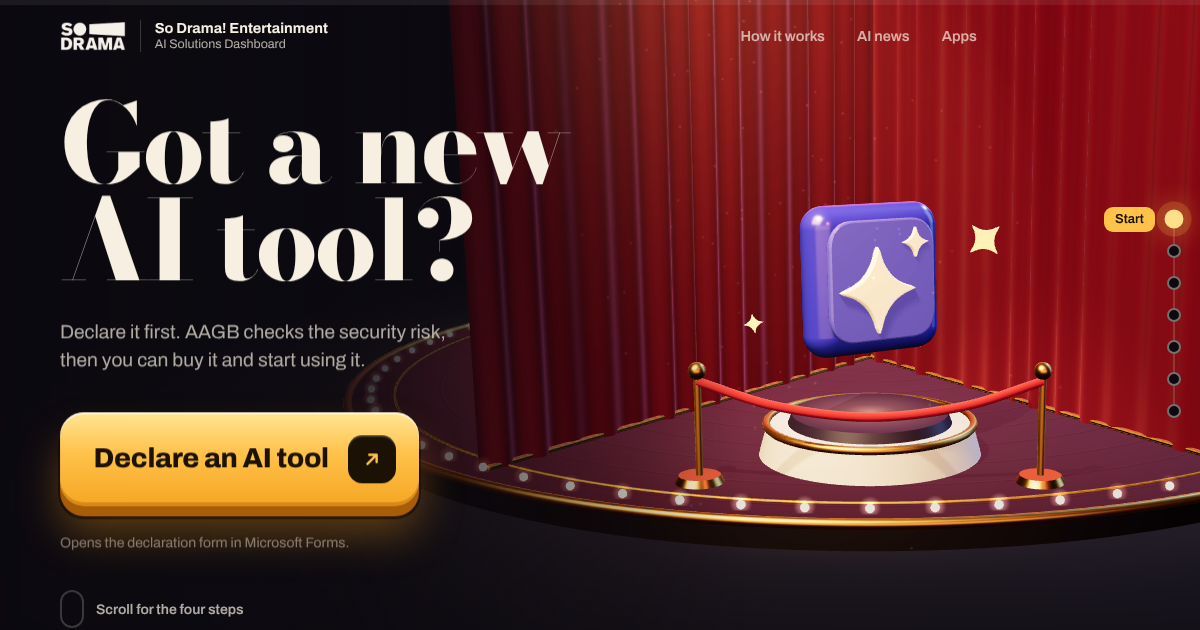
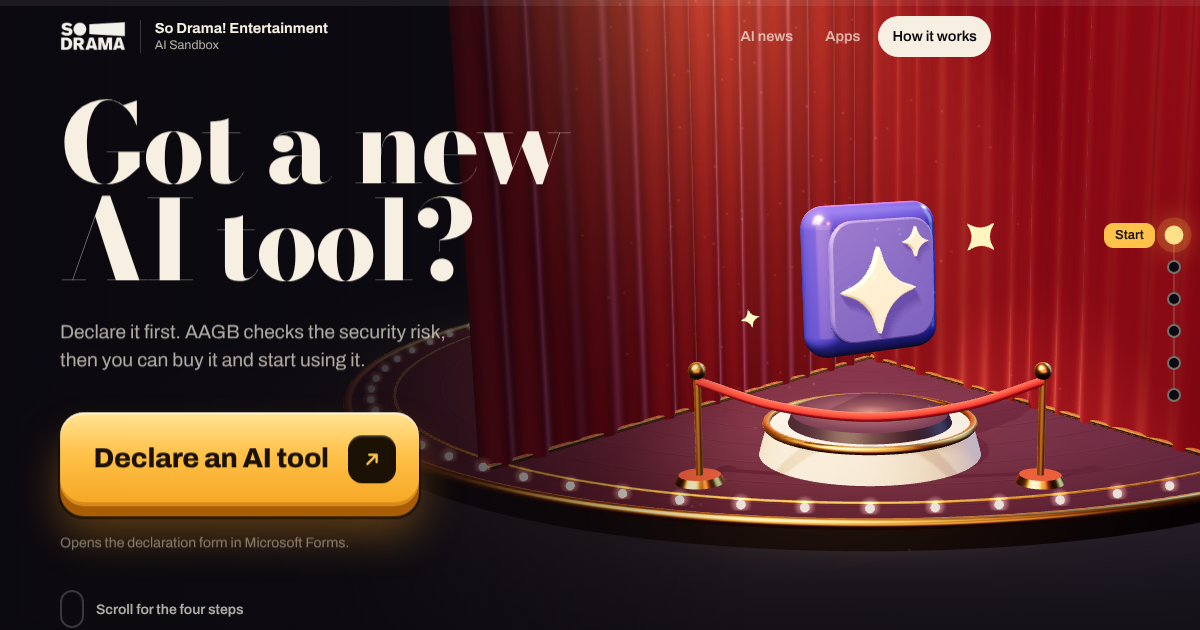
Rename the site to AI Sandbox
"AI Solutions Dashboard" becomes "AI Sandbox" in the top bar, the footer,
the browser tab, the share preview and the README. The installed app is
now called "AI Sandbox" too. The share picture (og.png) is re-rendered
with the new name and the new tab order.

The web address is unchanged.

Claude-Session: https://claude.ai/code/session_01SqWYa9AzrgcWZEtM8z7eVP

diff --git a/index.html b/index.html
@@ -3,21 +3,21 @@
 <head>
 <meta charset="utf-8">
 <meta name="viewport" content="width=device-width, initial-scale=1">
-<title>AI Solutions Dashboard · So Drama! Entertainment</title>
+<title>AI Sandbox · So Drama! Entertainment</title>
 <meta name="description" content="Catch up on AI news, open the apps we have built, and see how to declare the AI tools you use.">
 <meta name="theme-color" content="#0c0a10">
 <meta property="og:type" content="website">
-<meta property="og:title" content="AI Solutions Dashboard · So Drama! Entertainment">
+<meta property="og:title" content="AI Sandbox · So Drama! Entertainment">
 <meta property="og:description" content="Catch up on AI news, open the apps we have built, and see how to declare the AI tools you use.">
 <meta property="og:url" content="https://inthemightyjungle.github.io/sodrama-ai-dashboard/">
 <meta property="og:image" content="https://inthemightyjungle.github.io/sodrama-ai-dashboard/assets/img/og.png">
 <link rel="icon" href="assets/img/favicon.png">
 <link rel="apple-touch-icon" href="assets/img/apple-touch-icon.png">
-<!-- So the dashboard can be installed as an app (see manifest.webmanifest and sw.js). -->
+<!-- So the AI Sandbox can be installed as an app (see manifest.webmanifest and sw.js). -->
 <link rel="manifest" href="manifest.webmanifest">
 <meta name="mobile-web-app-capable" content="yes">
 <meta name="apple-mobile-web-app-capable" content="yes">
-<meta name="apple-mobile-web-app-title" content="So Drama AI">
+<meta name="apple-mobile-web-app-title" content="AI Sandbox">
 <meta name="apple-mobile-web-app-status-bar-style" content="black">
 <link rel="preload" href="assets/fonts/bodonimoda-var.woff" as="font" type="font/woff" crossorigin>
 <link rel="preload" href="assets/fonts/archivo-var.woff" as="font" type="font/woff" crossorigin>
@@ -87,11 +87,11 @@
 <div class="progress" aria-hidden="true"><span data-progress></span></div>
 
 <header class="top" data-top>
-  <a class="brand" href="#news" aria-label="So Drama! Entertainment, AI Solutions Dashboard. Go to the AI news.">
+  <a class="brand" href="#news" aria-label="So Drama! Entertainment, AI Sandbox. Go to the AI news.">
     <img class="brand-logo" src="assets/img/logo-white.png" alt="" width="648" height="296">
     <span class="brand-text">
       <span class="brand-name">So Drama! Entertainment</span>
-      <span class="brand-title">AI Solutions Dashboard</span>
+      <span class="brand-title">AI Sandbox</span>
     </span>
   </a>
   <nav class="nav" aria-label="Pages">
@@ -276,7 +276,7 @@
 
   <footer class="foot">
     <div class="wrap foot-inner">
-      <p class="foot-brand"><img src="assets/img/logo-white.png" alt="" width="648" height="296" loading="lazy"><span>So Drama! Entertainment<br>AI Solutions Dashboard</span></p>
+      <p class="foot-brand"><img src="assets/img/logo-white.png" alt="" width="648" height="296" loading="lazy"><span>So Drama! Entertainment<br>AI Sandbox</span></p>
       <div class="foot-actions">
         <button class="btn btn-ghost btn-install" type="button" data-install><svg viewBox="0 0 24 24" aria-hidden="true"><path d="M12 4v11M7 10l5 5 5-5M5 20h14"></path></svg>Install the app</button>
         <p class="install-hint">To add it to your iPhone or iPad: tap <strong>Share</strong>, then <strong>Add to Home Screen</strong>.</p>

diff --git a/sw.js b/sw.js
@@ -1,5 +1,5 @@
 /*
-  Lets the dashboard be installed as an app, and open without a connection.
+  Lets the AI Sandbox be installed as an app, and open without a connection.
 
   When online, every request goes to the network first, so the AI news is
   always today's and a new version of the site shows straight away. A copy of
@@ -55,7 +55,7 @@ self.addEventListener('fetch', (event) => {
   event.respondWith(networkFirst(event, url));
 });
 
-// The dashboard itself, whether it was opened as …/, …/index.html or with something after a "?".
+// The page itself, whether it was opened as …/, …/index.html or with something after a "?".
 function isDashboard(request, url) {
   return request.mode === 'navigate' && (url.pathname === HOME || url.pathname === HOME + 'index.html');
 }

diff --git a/assets/js/site.js b/assets/js/site.js
@@ -1,4 +1,4 @@
-/* So Drama! Entertainment: AI Solutions Dashboard */
+/* So Drama! Entertainment: AI Sandbox */
 (function () {
   'use strict';
 
@@ -552,7 +552,7 @@
     }
   }
 
-  /* ---------- installing the dashboard as an app ---------- */
+  /* ---------- installing the AI Sandbox as an app ---------- */
 
   // Chrome and Edge, on computers and on Android, offer to install the site as an app.
   // The "Install app" buttons only show while that offer stands.

diff --git a/assets/css/site.css b/assets/css/site.css
@@ -1,5 +1,5 @@
 /*
-  So Drama! Entertainment: AI Solutions Dashboard
+  So Drama! Entertainment: AI Sandbox
 
   The site is a theatre with the house lights down. It has three pages, shown
   one at a time: AI news, Apps, and How it works, where a 3D revolving stage

diff --git a/README.md b/README.md
@@ -1,6 +1,6 @@
-# So Drama! Entertainment: AI Solutions Dashboard
+# So Drama! Entertainment: AI Sandbox
 
-**Open the dashboard: <https://inthemightyjungle.github.io/sodrama-ai-dashboard/>**
+**Open the AI Sandbox: <https://inthemightyjungle.github.io/sodrama-ai-dashboard/>**
 
 Everything AI at So Drama!, in three tabs:
 
@@ -16,7 +16,7 @@ It is a plain static site (HTML, CSS and JavaScript, no build step), hosted on G
 
 ## Install it as an app
 
-The dashboard can sit on a computer or phone like an app, with its own icon and window.
+The AI Sandbox can sit on a computer or phone like an app, with its own icon and window.
 
 - **Chrome or Edge, on a computer or Android:** click **Install app** in the top bar (or at the bottom of any page), or use the install icon in the address bar.
 - **iPhone or iPad:** open the link in Safari, tap **Share**, then **Add to Home Screen**.

diff --git a/CLAUDE.md b/CLAUDE.md
@@ -1,6 +1,6 @@
-# Working on the AI Solutions Dashboard
+# Working on the AI Sandbox
 
-This is So Drama! Entertainment's internal AI page, hosted on GitHub Pages from `main`.
+This is So Drama! Entertainment's internal AI page, the **AI Sandbox** (it was called the AI Solutions Dashboard until 16 November 2026; the web address still says `sodrama-ai-dashboard`). It is hosted on GitHub Pages from `main`.
 Live: https://inthemightyjungle.github.io/sodrama-ai-dashboard/
 
 ## Ground rules
